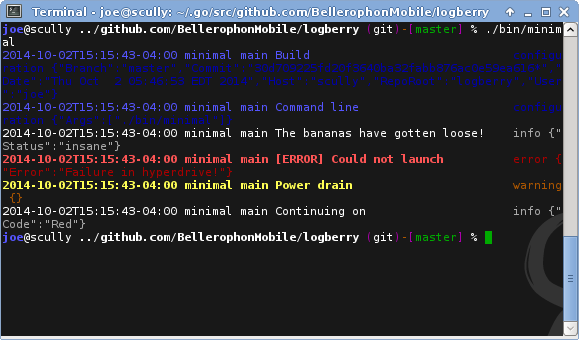
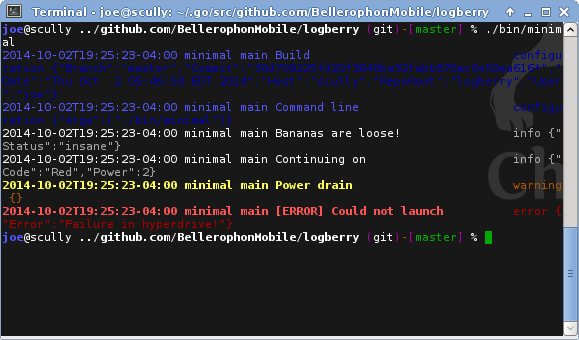
Thread safe and multiplexer outputs added, examples updated to new default text stdout output.

diff --git a/outputdriver.go b/outputdriver.go
@@ -22,9 +22,91 @@ func init() {
 //----------------------------------------------------------------------
 type OutputDriver interface {
   Log(component string,
-      class StatementClass,
-      msg string,
-      data interface{})
+    class StatementClass,
+    msg string,
+    data *D)
+}
+
+type LogEntry struct {
+	Component string
+	Class StatementClass
+	Msg string
+	Data *D
+}
+
+
+//----------------------------------------------------------------------
+//----------------------------------------------------------------------
+type ThreadSafeOutput struct {
+	driver OutputDriver
+	output chan *LogEntry
+}
+
+
+func NewThreadSafeOutput(driver OutputDriver, buffer int) *ThreadSafeOutput {
+
+	ts := &ThreadSafeOutput {
+		driver: driver,
+		output: make(chan *LogEntry, buffer),
+	}
+
+	go ts.process()
+
+	return ts
+}
+
+func (x *ThreadSafeOutput) Log(component string,
+                               class StatementClass,
+                               msg string,
+                               data *D) {
+	x.output <- &LogEntry{
+		Component: component,
+		Class: class,
+		Msg: msg,
+		Data: data,
+	}
+}
+
+func (x *ThreadSafeOutput) process() {
+
+	for {
+		e := <- x.output
+		x.driver.Log(e.Component, e.Class, e.Msg, e.Data)
+	}
+
+}
+
+
+//----------------------------------------------------------------------
+//----------------------------------------------------------------------
+type MultiplexerOutput struct {
+	drivers []OutputDriver
+}
+
+// MultiplexerOutput is not necessary for basic multiple output.
+// logberry's core supports multiple outputs.  But the multiplexer
+// permits arrangements such as feeding the core output to a
+// ThreadSafeOutput, which in turns feeds to a multiplexer, and then
+// through that to several outputs.
+func NewMultiplexerOutput() *MultiplexerOutput {
+	return &MultiplexerOutput {
+		drivers: make([]OutputDriver, 0),
+	}
+}
+
+func (x *MultiplexerOutput) AddOutputDriver(out OutputDriver) {
+	x.drivers = append(x.drivers, out)
+}
+
+func (x *MultiplexerOutput) Log(component string,
+                               class StatementClass,
+                               msg string,
+                               data *D) {
+
+	for _,out := range(x.drivers) {
+		out.Log(component, class, msg, data)
+	}
+
 }
 
 
@@ -73,7 +155,7 @@ func (o *JSONOutput) criticalerror(component string,
 func (o *JSONOutput) Log(component string,
                          class StatementClass,
                          msg string,
-                         data interface{}) {
+                         data *D) {
 
 	var entry = make(map[string]interface{})
 	entry["Class"] = STATEMENT_CLASS_TEXT[class]
@@ -206,7 +288,7 @@ func (o *TextOutput) criticalerror(component string,
 func (o *TextOutput) Log(component string,
                          class StatementClass,
                          msg string,
-                         data interface{}) {
+                         data *D) {
 
 	if class < 0 || class > UNKNOWN {
 		o.criticalerror(component, NewError("Class", class, "out of range"))

diff --git a/examples/threaded/main.go b/examples/threaded/main.go
@@ -1,0 +1,69 @@
+package main
+
+import (
+	"github.com/BellerophonMobile/logberry"
+
+	"time"
+	"sync"
+)
+
+
+func out(thread int, log *logberry.ComponentLog, wg *sync.WaitGroup) {
+
+	for i := 0; i < 100; i++ {
+		log.Info(`
+      Four score and seven years ago our fathers brought forth on this
+      continent, a new nation, conceived in Liberty, and dedicated to
+      the proposition that all men are created equal.
+
+      Now we are engaged in a great civil war, testing whether that
+      nation, or any nation so conceived and so dedicated, can long
+      endure. We are met on a great battle-field of that war. We have
+      come to dedicate a portion of that field, as a final resting
+      place for those who here gave their lives that that nation might
+      live. It is altogether fitting and proper that we should do
+      this.
+
+      But, in a larger sense, we can not dedicate -- we can not
+      consecrate -- we can not hallow -- this ground. The brave men,
+      living and dead, who struggled here, have consecrated it, far
+      above our poor power to add or detract. The world will little
+      note, nor long remember what we say here, but it can never
+      forget what they did here. It is for us the living, rather, to
+      be dedicated here to the unfinished work which they who fought
+      here have thus far so nobly advanced. It is rather for us to be
+      here dedicated to the great task remaining before us -- that
+      from these honored dead we take increased devotion to that cause
+      for which they gave the last full measure of devotion -- that we
+      here highly resolve that these dead shall not have died in vain
+      -- that this nation, under God, shall have a new birth of
+      freedom -- and that government of the people, by the people, for
+      the people, shall not perish from the earth.
+    `, &logberry.D{"Thread": thread, "Num": i})
+	}
+
+	wg.Done()
+
+}
+
+
+func main() {
+	var wg sync.WaitGroup
+
+	logberry.SetOutputDriver(logberry.NewThreadSafeOutput(logberry.NewStdOutput(), 7))
+
+  log := logberry.NewComponent("testcmpnt", &logberry.D{"Rolling": "basic"})
+
+	wg.Add(2)
+	go out(2, log, &wg)
+	go out(1, log, &wg)
+
+	wg.Wait()
+
+	log.Info("Done")
+
+	time.Sleep(5 * time.Second) // Necessary so threadsafe output
+	                            // goroutine isn't cut off by main
+	                            // program termination immediately
+	                            // after wait.
+}

diff --git a/logberry.go b/logberry.go
@@ -60,13 +60,25 @@ func init() {
 		log.Fatal("Fatal internal error: " +
 			"len(STATEMENT_CLASS_TEXT) != |StatementClass|")
 	}
+
+	AddOutputDriver(NewStdOutput())
 }
 
 
 //----------------------------------------------------------------------
 //----------------------------------------------------------------------
-func AddOutput(driver OutputDriver) {
+func AddOutputDriver(driver OutputDriver) OutputDriver {
 	outputdrivers = append(outputdrivers, driver)
+	return driver
+}
+
+func SetOutputDriver(driver OutputDriver) OutputDriver {
+	ClearOutputDrivers()
+	return AddOutputDriver(driver)
+}
+
+func ClearOutputDrivers() {
+	outputdrivers = []OutputDriver{}
 }
 
 func AddErrorListener(listener ErrorListener) {

diff --git a/examples/minimal/main.go b/examples/minimal/main.go
@@ -7,18 +7,16 @@ import (
 
 func main() {
 
-	logberry.AddOutput(logberry.NewStdOutput())
-
   logberry.Build(buildmeta)
+
   logberry.CommandLine()
 
-  logberry.Info("The bananas have gotten loose!",
-		&logberry.D{"Status": "insane"})
+  logberry.Info("Bananas are loose!", &logberry.D{"Status": "insane"})
 
-  logberry.Error("Could not launch", errors.New("Failure in hyperdrive!"))
+  logberry.Info("Continuing on", &logberry.D{"Code": "Red", "Power": 2})
 
 	logberry.Warning("Power drain");
 
-  logberry.Info("Continuing on", &logberry.D{"Code": "Red"})
+  logberry.Error("Could not launch", errors.New("Failure in hyperdrive!"))
 
 }

diff --git a/examples/multiplexer/main.go b/examples/multiplexer/main.go
@@ -1,0 +1,22 @@
+package main
+
+import (
+	"github.com/BellerophonMobile/logberry"
+	"os"
+)
+
+func main() {
+
+	// This is not necessary, logberry's core supports multiple outputs.
+  // But this permits you to do things like feed the core output to a
+  // ThreadSafeOutput, which in turns feeds to a multiplexer and then
+  // through that to several outputs.
+	m := logberry.NewMultiplexerOutput()
+	m.AddOutputDriver(logberry.NewStdOutput())
+	m.AddOutputDriver(logberry.NewJSONOutput(os.Stdout))
+	logberry.SetOutputDriver(m)
+
+  log := logberry.NewComponent("testcmpnt", &logberry.D{"Rolling": "basic"})
+
+	log.Info("Done")
+}

diff --git a/examples/task/main.go b/examples/task/main.go
@@ -12,17 +12,18 @@ type test struct {
 
 func main() {
 
-	logberry.AddOutput(logberry.NewStdOutput())
-
   log := logberry.NewComponent("testcmpnt", &logberry.D{"Alpha": "Beta"})
 
 	value := &test{ StringField: "Banana", IntField: 24 }
+
 
 	task := log.Task("Some non-trivial activity", value)
 
 	task.Success()
 
+
 	task = log.ResourceTask("Read some resource", "/dev/null")
+
 	task.Failure("Can't read /dev/null")
 
 }

diff --git a/examples/component/main.go b/examples/component/main.go
@@ -7,8 +7,6 @@ import (
 
 func main() {
 
-	logberry.AddOutput(logberry.NewStdOutput())
-
   log := logberry.NewComponent("testcmpnt", &logberry.D{"Rolling": "basic"})
 
   log.Info("Component is processing", &logberry.D{"ID": "757"})

diff --git a/README.md b/README.md
@@ -79,19 +79,17 @@ import (
 
 func main() {
 
-	logberry.AddOutput(logberry.NewStdOutput())
-
   logberry.Build(buildmeta)
+
   logberry.CommandLine()
 
-  logberry.Info("The bananas have gotten loose!",
-		&logberry.D{"Status": "insane"})
+  logberry.Info("Bananas are loose!", &logberry.D{"Status": "insane"})
 
-  logberry.Error("Could not launch", errors.New("Failure in hyperdrive!"))
+  logberry.Info("Continuing on", &logberry.D{"Code": "Red", "Power": 2})
 
 	logberry.Warning("Power drain");
 
-  logberry.Info("Continuing on", &logberry.D{"Code": "Red"})
+  logberry.Error("Could not launch", errors.New("Failure in hyperdrive!"))
 
 }
 ```
